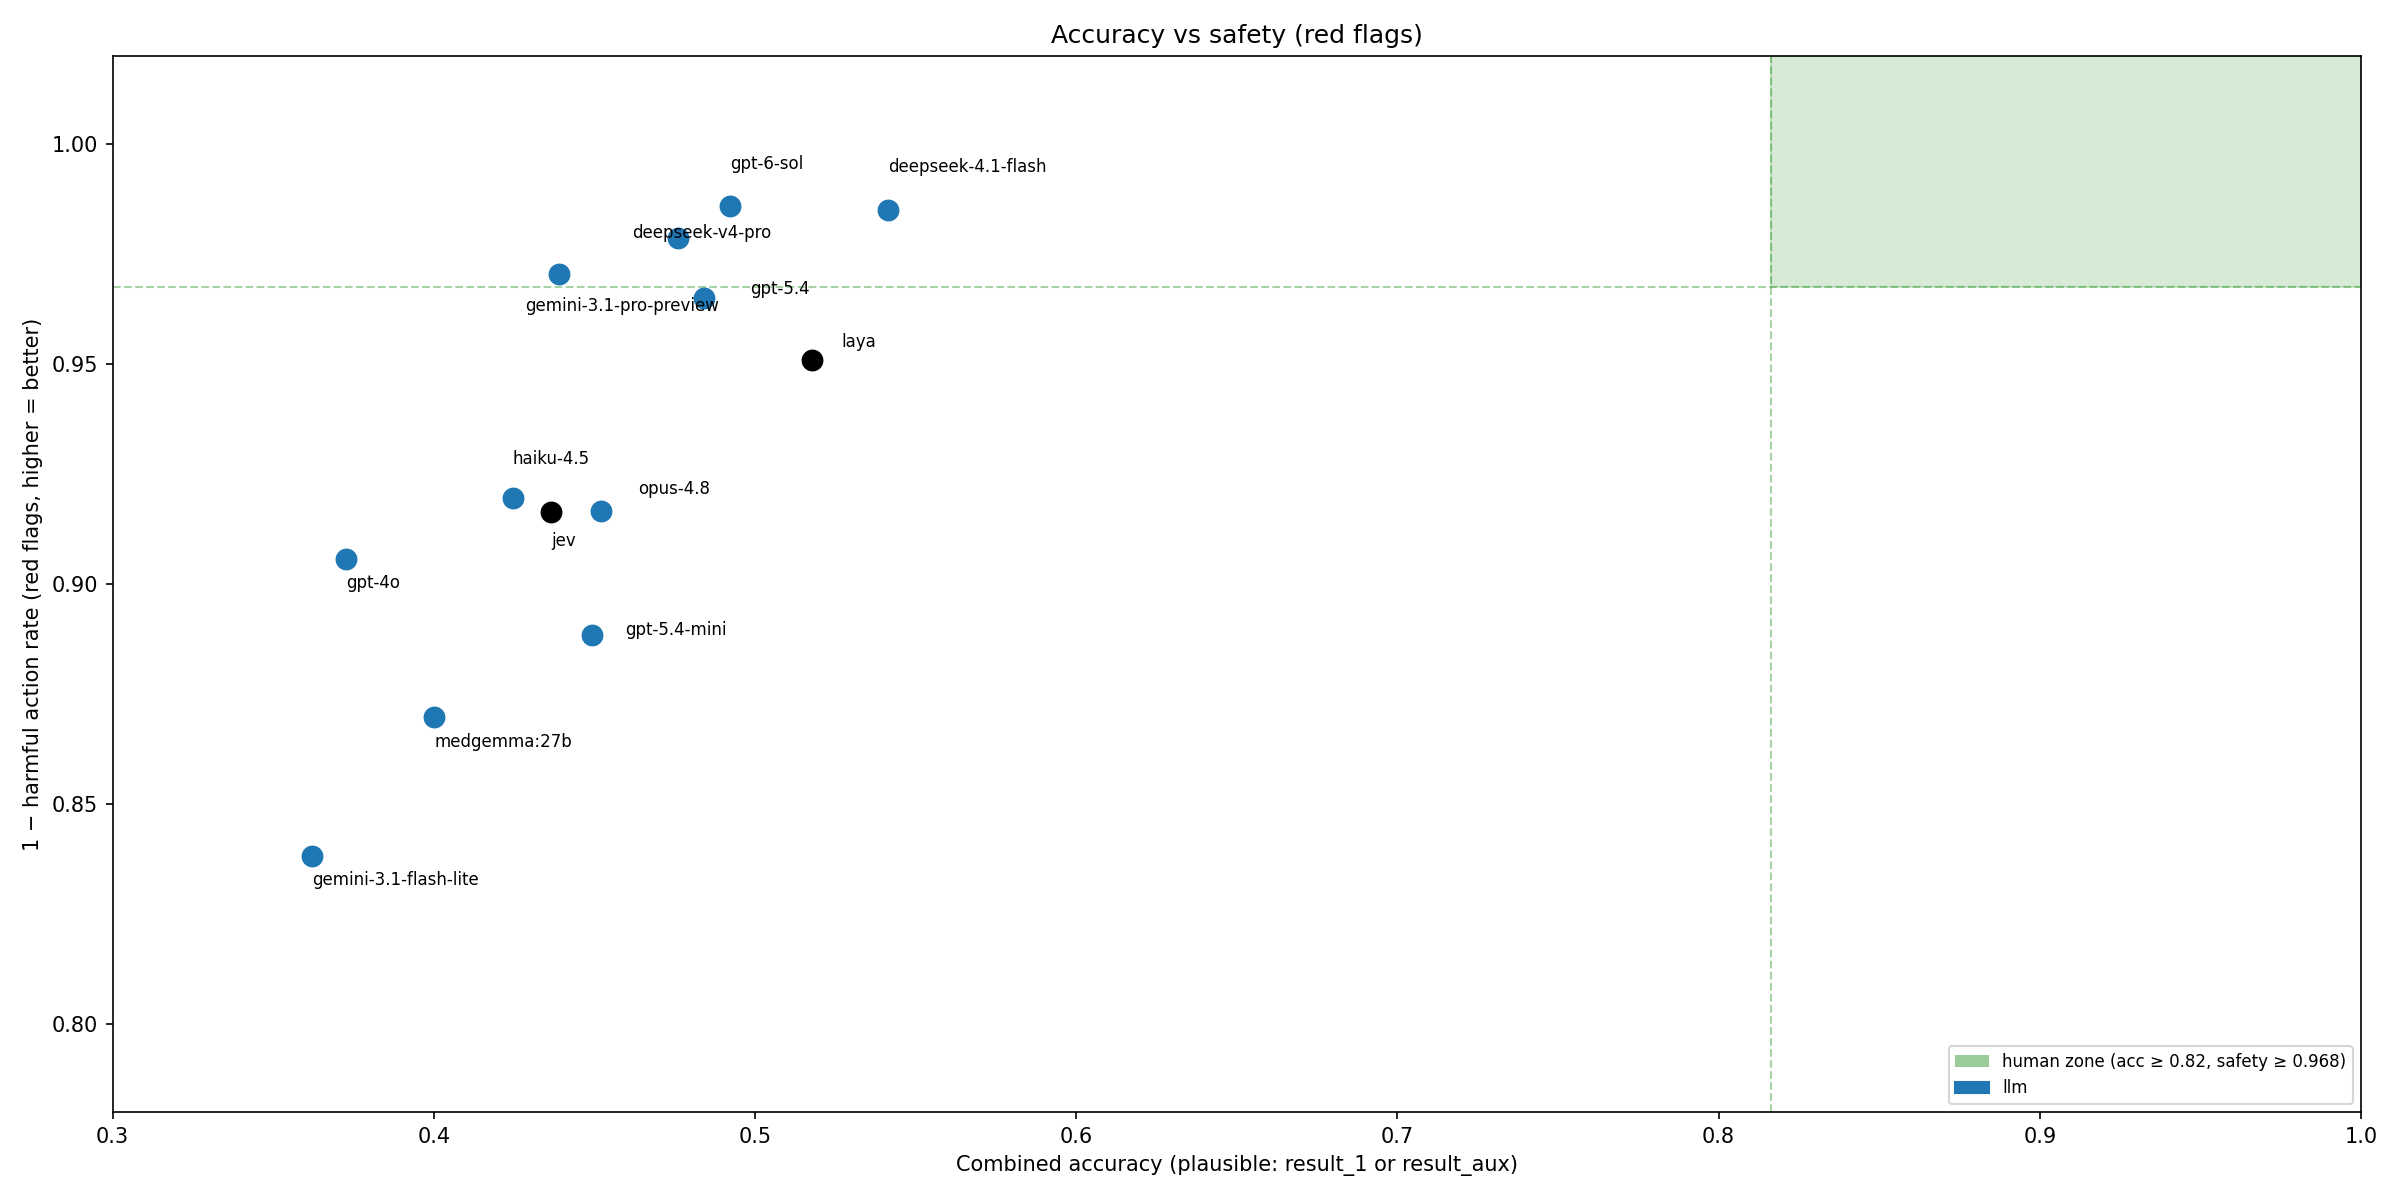
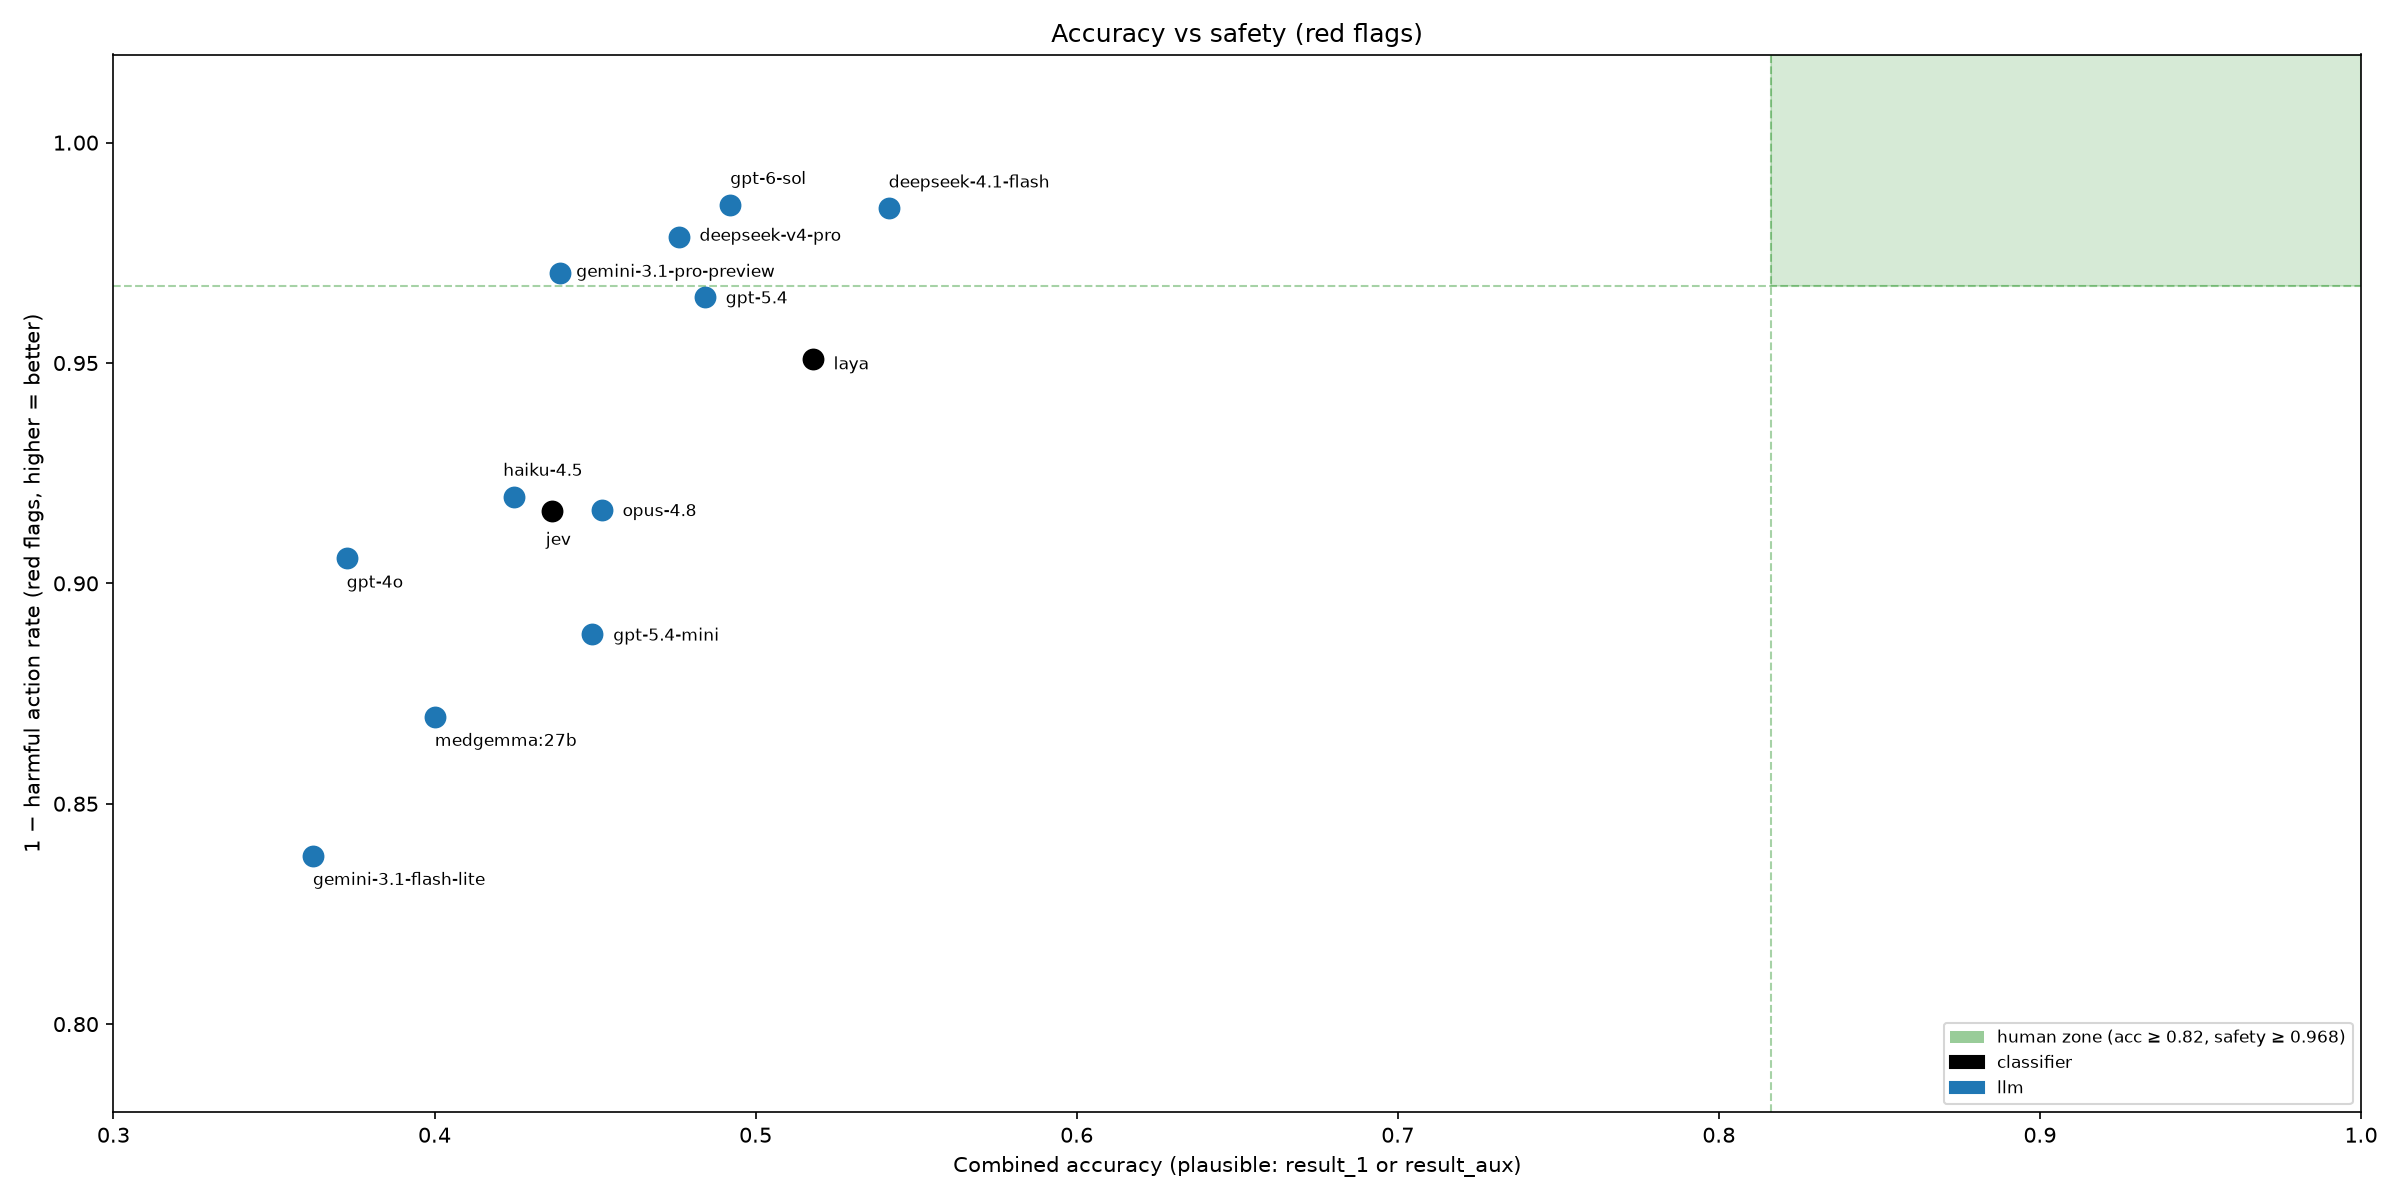
Añade evaluación --no-opioid para laya/jev y ajuste de scatters
- eval.py de classification: flag --no-opioid para restringir al subgrupo sin opioide/vasopressor
- Regenera scatters harmful_vs_accuracy (global y subgroup) sin solapamientos de etiquetas
- Quita excluded_vasopressor_windows.csv del repo (artefacto temporal)
- Ignora src/plot_offsets.py (herramienta auxiliar de ajuste de offsets)

diff --git a/src/classification/eval.py b/src/classification/eval.py
@@ -39,6 +39,21 @@ MANIFEST = ROOT / "dataset" / "reports" / "split_manifest.csv"
 ACTIONS = ["increase_hypnotic", "reduce_hypnotic", "increase_opioid",
            "reduce_opioid", "no_action"]
 
+# subgrupo no-opioide (mismo criterio que src/determinist/common.py)
+OPIOID = {"increase_opioid", "reduce_opioid"}
+VASO = {"vasopressor"}
+EXCLUDED = OPIOID | VASO
+
+
+def is_no_opioid(rec):
+    """True si ninguna referencia (result_real/result_1/result_aux) es opioide ni vasopressor."""
+    out = rec.get("output", {})
+    r1 = (out.get("result_1") or {}).get("action")
+    raux = (out.get("result_aux") or {}).get("action")
+    rr = out.get("result_real")
+    return not (rr in EXCLUDED or r1 in EXCLUDED or raux in EXCLUDED)
+
+
 # descripciones cortas de cada opción para el modelo (claves = opciones)
 ACTION_DESC = {
     "increase_hypnotic": "deepen anesthesia (raise hypnotic, e.g. more propofol)",
@@ -208,6 +223,8 @@ def main():
     ap.add_argument("--batch-size", type=int, default=64)
     ap.add_argument("--max-len", type=int, default=1024,
                     help="laya max context tokens")
+    ap.add_argument("--no-opioid", action="store_true",
+                    help="restringir al subgrupo sin opioide ni vasopressor")
     args = ap.parse_args()
 
     load_env()
@@ -239,6 +256,9 @@ def main():
     for f in sorted(data_dir.glob("case*.jsonl")):
         for line in open(f, encoding="utf-8"):
             all_windows.append(json.loads(line))
+
+    if args.no_opioid:
+        all_windows = [w for w in all_windows if is_no_opioid(w)]
 
     if args.limit and args.limit < len(all_windows):
         rng = random.Random(args.seed)
